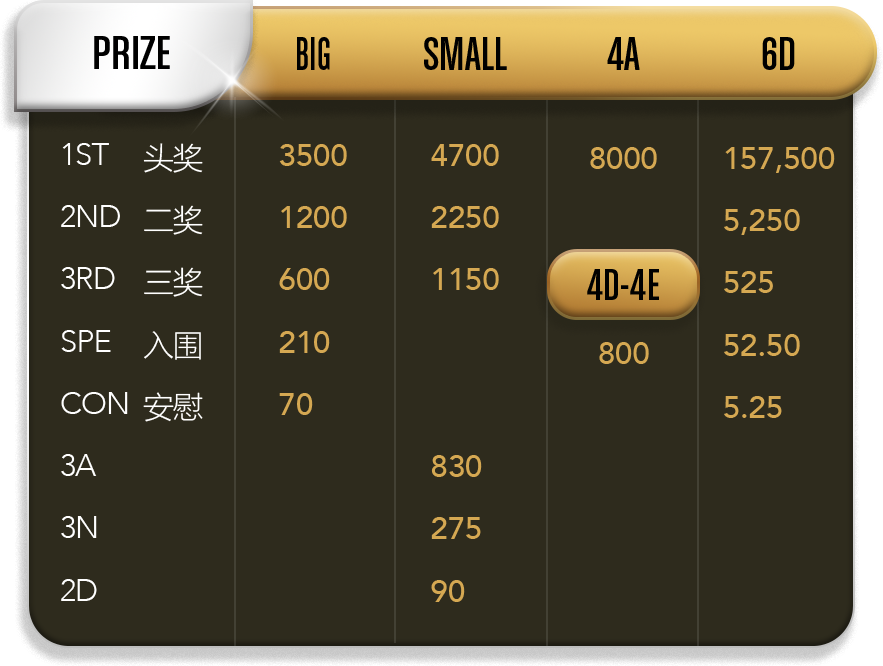
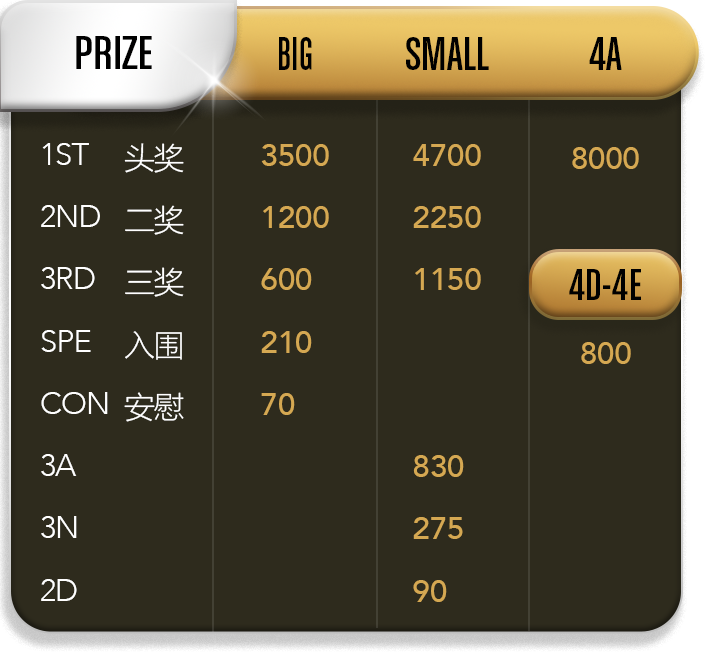
Fix: Added new images for payout

diff --git a/42rd-bet/payout.html b/42rd-bet/payout.html
@@ -122,6 +122,18 @@
 <!--                        </div>-->
 
                     </div>
+
+                    <div class="perdana-6d mt-1">
+
+                        <div class="payout__title">
+                            <h4>PERDANA 6D</h4>
+                            <img class="set_icon" src="../assets/img/selected_company (4).png" alt="">
+                        </div>
+
+                        <img  class="table-img-small" src="../assets/img/PERDANA%206D.png"/>
+
+                    </div>
+
                     <div class="lucky mt-1">
                         <div class="payout__title">
                             <h4>LUCKY</h4>
@@ -220,6 +232,16 @@
 
 <!--                        </div>-->
 
+
+                    </div>
+                    <div class="lucky-6d mt-1">
+
+                        <div class="payout__title">
+                            <h4>LUCKY 6D</h4>
+                            <img class="set_icon" src="../assets/img/selected_company (3).png" alt="">
+                        </div>
+
+                        <img  class="table-img-small" src="../assets/img/LUCKY%206D.png"/>
 
                     </div>
                     <div class="jaguar mt-1">

diff --git a/assets/css/style.css b/assets/css/style.css
@@ -348,6 +348,10 @@ html, body {
     color: #f1d24c;
 }
 
+.table-img-small{
+    width: 62%;
+}
+
 .payout__title h2 {
     font-size: 28px;
     text-transform: uppercase;
